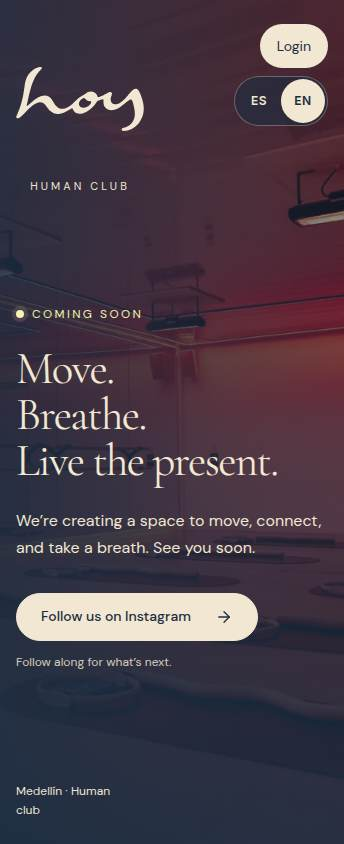
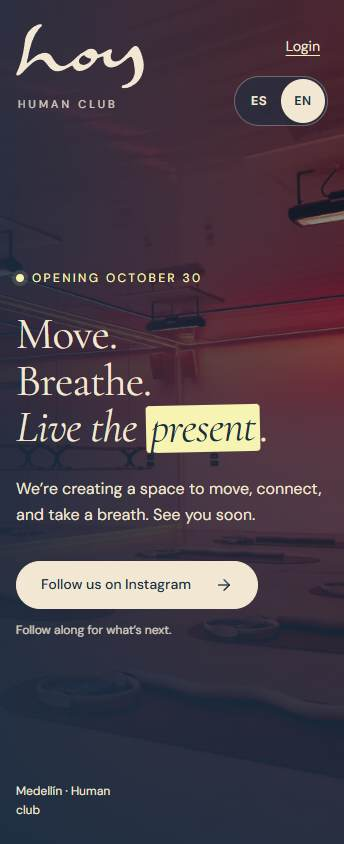
feat: coming-soon quick wins - opening date, marker, lockup, previews (0155)
W-11 (public root):
- Eyebrow names opening day from tenant.opensOn (RN-01: 30 October) and falls back
  to "Proximamente" after it; footer stays city-only until the address is verified.
- Tagline's last line in italic with its last word on the sun marker; tracking moved
  to --ls-tight so the tall acute in "Muevete" no longer leans into the u.
- One left-aligned lockup: the vector wordmark gets an explicit height (aspect-ratio
  alone let the svg fall back to 150 px, leaving a ~90 px gap above "Human club").
- Login kept (owner request 0058) as a quiet text link beside the language toggle.
- Deeper ink scrim behind the text column and footer.
- Link previews: og/twitter tags with an absolute %SITE_URL% filled in by vite, and a
  1200x630 card rendered from W-11 by scripts/gen-og-image.mjs (ES + EN).

test-website-preview passes; W-11 captures regenerated. Docs: changelog 0155,
prompt 0155, W-11 page, kanban. Page codes: W-11.

diff --git a/src/components/template/ComingSoonLanding/ComingSoonLanding.css b/src/components/template/ComingSoonLanding/ComingSoonLanding.css
@@ -5,9 +5,11 @@
 }
 .coming-soon-scene, .coming-soon-veil { position: absolute; inset: 0; z-index: -1; }
 .coming-soon-scene { width: 100%; height: 100%; object-fit: cover; object-position: 62% center; }
+/* 0155 · the text column gets a deeper, longer ink scrim (it holds to ~45% before easing out) and the bottom band is
+   darker, so the small lines ("Lo que viene…", the footer) never sit on the busy mirror and mats. */
 .coming-soon-veil {
-  background: linear-gradient(90deg, color-mix(in srgb, var(--brand-ink) 94%, transparent), color-mix(in srgb, var(--brand-deepBlue) 74%, transparent) 38%, color-mix(in srgb, var(--brand-ink) 9%, transparent) 78%),
-    linear-gradient(0deg, color-mix(in srgb, var(--brand-ink) 48%, transparent), transparent 30%);
+  background: linear-gradient(90deg, color-mix(in srgb, var(--brand-ink) 95%, transparent), color-mix(in srgb, var(--brand-ink) 82%, transparent) 30%, color-mix(in srgb, var(--brand-deepBlue) 58%, transparent) 48%, color-mix(in srgb, var(--brand-ink) 6%, transparent) 80%),
+    linear-gradient(0deg, color-mix(in srgb, var(--brand-ink) 72%, transparent), transparent 34%);
 }
 .coming-soon-layout {
   min-height: 100svh; max-width: 120rem; margin-inline: auto;
@@ -16,19 +18,26 @@
 }
 .coming-soon-header { display: flex; align-items: flex-start; justify-content: space-between; gap: var(--block); }
 .coming-soon-tools { display: flex; align-items: center; gap: var(--gap-control); }
-.coming-soon-login { display: inline-flex; align-items: center; justify-content: center; min-height: var(--h-ctl); padding: 0 var(--sp-lg); border: 1px solid color-mix(in srgb, var(--brand-cream) 45%, transparent); border-radius: var(--r-full); color: var(--brand-cream); background: color-mix(in srgb, var(--brand-ink) 58%, transparent); font: inherit; font-size: var(--fs-sm); text-decoration: none; white-space: nowrap; cursor: pointer; }
-.coming-soon-login:hover { background: var(--brand-cream); color: var(--brand-ink); }
-.coming-soon-brand { display: flex; flex-direction: column; align-items: center; gap: var(--sp-xs); }
-.coming-soon-brand .wordmark-vector { width: 8rem; min-width: 0; }
-.coming-soon-brand > span:last-child { font-size: var(--fs-2xs); text-transform: uppercase; letter-spacing: .28em; }
+/* 0155 · Login (owner request, 0058) stays but steps back: a text link beside the language pill, not a second pill. */
+.coming-soon-login { display: inline-flex; align-items: center; justify-content: center; min-height: var(--h-ctl); padding: 0 var(--sp-sm); border: 0; border-radius: var(--r-sm); color: color-mix(in srgb, var(--brand-cream) 88%, transparent); background: none; font: inherit; font-size: var(--fs-sm); text-decoration: underline; text-decoration-color: color-mix(in srgb, var(--brand-cream) 40%, transparent); text-underline-offset: .3em; white-space: nowrap; cursor: pointer; transition: color var(--dur-fast), text-decoration-color var(--dur-fast); }
+.coming-soon-login:hover { color: var(--brand-cream); text-decoration-color: var(--brand-yellow); }
+/* 0155 · one lockup: the tagline sits tight under the script mark and shares its left edge with everything below. */
+.coming-soon-brand { display: flex; flex-direction: column; align-items: flex-start; gap: 0; }
+/* An explicit height, as the site header does: aspect-ratio alone let the inner svg fall back to its 150 px default,
+   which opened a ~90 px hole between the script and "Human club". */
+.coming-soon-brand .wordmark-vector { width: 8rem; height: calc(8rem / var(--wm-ratio)); min-width: 0; }
+.coming-soon-brand > span:last-child { margin-top: var(--sp-sm); padding-left: var(--sp-2xs); font-size: var(--fs-2xs); text-transform: uppercase; letter-spacing: .28em; opacity: .85; }
 .coming-soon .langtoggle { background: color-mix(in srgb, var(--brand-ink) 58%, transparent); border-color: color-mix(in srgb, var(--brand-cream) 32%, transparent); }
 .coming-soon .langtoggle button { color: var(--brand-cream); min-width: var(--h-ctl); }
 .coming-soon .langtoggle button.is-active { background: var(--brand-cream); color: var(--brand-ink); box-shadow: none; }
 .coming-soon-message { flex: 1; display: flex; flex-direction: column; justify-content: center; align-items: flex-start; padding-block: var(--section); max-width: 36rem; }
 .coming-soon-status { margin: 0 0 var(--block); display: flex; align-items: center; gap: var(--gap-inline); text-transform: uppercase; letter-spacing: .2em; font-size: var(--fs-xs); color: var(--brand-yellow); }
 .coming-soon-status > span { width: var(--sp-sm); height: var(--sp-sm); border-radius: var(--r-full); background: currentColor; box-shadow: 0 0 0 var(--sp-xs) color-mix(in srgb, var(--brand-yellow) 13%, transparent); }
-.coming-soon h1 { margin: 0; font-family: var(--font-editorial); font-size: clamp(3rem, 5.7vw, 5.6rem); line-height: 1.02; letter-spacing: -.035em; font-weight: 400; color: var(--brand-cream); }
-.coming-soon h1 span { display: block; }
+.coming-soon h1 { margin: 0; font-family: var(--font-editorial); font-size: clamp(3rem, 5.7vw, 5.6rem); line-height: 1.04; letter-spacing: var(--ls-tight); font-weight: 400; color: var(--brand-cream); }
+.coming-soon h1 > span { display: block; }
+/* 0155 · the last line in italic (as the site's "tu tiempo."), its last word on the sun marker in ink: the one loud moment. */
+.coming-soon-lead { font-style: italic; }
+.coming-soon-mark { display: inline-block; line-height: 1; padding: 0 .1em .04em; margin-right: .02em; border-radius: .08em; background: var(--brand-yellow); color: var(--brand-ink); transform: rotate(-1.2deg); }
 .coming-soon-intro { max-width: 35ch; margin: var(--block) 0 0; font-size: var(--fs-md); line-height: 1.65; text-wrap: pretty; }
 .coming-soon-cta { margin-top: var(--sp-2xl); }
 .coming-soon-follow { display: inline-flex; align-items: center; justify-content: space-between; gap: var(--block); min-height: var(--h-ctl-lg); padding: 0 var(--sp-xl); border: 1px solid var(--brand-cream); border-radius: var(--r-full); color: var(--brand-ink); background: var(--brand-cream); text-decoration: none; font-size: var(--fs-sm); font-weight: var(--fw-medium); transition: background var(--dur-base), transform var(--dur-base); }
@@ -38,7 +47,7 @@
 .coming-soon-footer p { margin: 0; }
 .coming-soon :is(button, a):focus-visible { outline: 2px solid var(--brand-yellow); outline-offset: var(--sp-xs); }
 @media (max-width: 767px) {
-  .coming-soon-tools { flex-direction: column-reverse; align-items: flex-end; gap: var(--sp-sm); }
+  .coming-soon-tools { flex-direction: column; align-items: flex-end; gap: var(--sp-sm); }
   .coming-soon-layout { padding: var(--sp-xl) var(--gutter); }
   .coming-soon-scene { object-position: 58% center; }
   .coming-soon-veil { background: linear-gradient(90deg, color-mix(in srgb, var(--brand-ink) 86%, transparent), color-mix(in srgb, var(--brand-ink) 43%, transparent)), linear-gradient(0deg, color-mix(in srgb, var(--brand-ink) 85%, transparent), transparent 90%); }

diff --git a/src/components/template/ComingSoonLanding/ComingSoonLanding.tsx b/src/components/template/ComingSoonLanding/ComingSoonLanding.tsx
@@ -4,6 +4,7 @@ import { Drawer } from '../../organism/Drawer/Drawer';
 import { Button } from '../../atom/Button/Button';
 import { useI18n } from '../../../i18n/I18nProvider';
 import { tenant } from '../../../tenant/tenant';
+import { dateKey, formatDate } from '../../../i18n/format';
 import { taglines } from '../../../tenant/brand';
 import { Wordmark } from '../../atom/Wordmark/Wordmark';
 import { Icon } from '../../atom/Icon/Icon';
@@ -12,7 +13,11 @@ import './ComingSoonLanding.css';
 
 /** An independent launch surface: no website-edition state or mock conversion controls. */
 export function ComingSoonLanding() {
-  const { t, bi } = useI18n();
+  const { t, bi, lang } = useI18n();
+  // 0155: the eyebrow names opening day until it has passed, then falls back to "Próximamente".
+  const status = dateKey() <= tenant.opensOn ? t('soon.opens', { date: formatDate(tenant.opensOn, lang, { day: 'numeric', month: 'long' }) }) : t('soon.status');
+  // 0155: the tagline's last line is set in italic and its last word carries the sun marker — the page's one loud moment.
+  const lines = bi(taglines.present).split('.').map((l) => l.trim()).filter(Boolean);
   const [params, setParams] = useSearchParams();
   const location = useLocation();
   const navigate = useNavigate();
@@ -48,11 +53,15 @@ export function ComingSoonLanding() {
     <div className="coming-soon-layout">
       <header className="coming-soon-header">
         <div className="coming-soon-brand"><Wordmark vector tone="cream" /><span>{bi(tenant.tagline)}</span></div>
-        <div className="coming-soon-tools"><LangToggle /><button ref={loginButton} type="button" className="coming-soon-login" onClick={openLogin} aria-haspopup="dialog" aria-expanded={loginOpen}>{t('soon.login')}</button></div>
+        <div className="coming-soon-tools"><button ref={loginButton} type="button" className="coming-soon-login" onClick={openLogin} aria-haspopup="dialog" aria-expanded={loginOpen}>{t('soon.login')}</button><LangToggle /></div>
       </header>
       <section className="coming-soon-message" aria-labelledby="coming-soon-title">
-        <p className="coming-soon-status"><span aria-hidden="true" />{t('soon.status')}</p>
-        <h1 id="coming-soon-title">{bi(taglines.present).split('.').filter(Boolean).map(line => <span key={line}>{line.trim()}.</span>)}</h1>
+        <p className="coming-soon-status"><span aria-hidden="true" />{status}</p>
+        <h1 id="coming-soon-title">{lines.map((line, i) => {
+          if (i < lines.length - 1) return <span key={line}>{line}.</span>;
+          const cut = line.lastIndexOf(' ');
+          return <span key={line} className="coming-soon-lead">{cut > 0 ? `${line.slice(0, cut)} ` : ''}<mark className="coming-soon-mark">{line.slice(cut + 1)}</mark>.</span>;
+        })}</h1>
         <p className="coming-soon-intro">{t('soon.intro')}</p>
         <div className="coming-soon-cta">
           <a className="coming-soon-follow" href={tenant.social.instagramUrl} target="_blank" rel="noopener noreferrer">

diff --git a/src/modules/coming-soon/specs.ts b/src/modules/coming-soon/specs.ts
@@ -7,10 +7,12 @@ export const comingSoonSpec = defineSpec({
   purpose: { es: 'La página de preapertura, separada del sitio completo y accesible desde su propia tarjeta en el hub.', en: 'A standalone pre-launch page, separate from the full website and accessible from its own hub card.' },
   layout: ['Landing'], data: [], roles: EVERYONE, integrations: [],
   logic: [
-    'Public root and /coming-soon share the pre-launch page; /hub is the separate public testing hub. No SiteShell, booking, launch date or lead collection.',
+    'Public root and /coming-soon share the pre-launch page; /hub is the separate public testing hub. No SiteShell, booking or lead collection.',
+    '0155: the eyebrow names opening day from tenant.opensOn (RN-01, 30 October) until that day has passed, then reads "Coming soon". The tagline\'s last line is italic with its last word on the sun marker.',
     'Uses the existing brand wordmark, tenant identity, approved brand tagline and concept sanctuary artwork.',
     'AmbientScene reuses the existing local loop with a still fallback, reduced-motion/save-data support and an explicit pause control.',
-    'Top-right Login opens a Coming Soon dialog with Close, Escape, Back and focus restoration; no credentials, Clerk setup or authentication action.',
+    'Top-right Login (a quiet text link beside the language toggle since 0155) opens a Coming Soon dialog with Close, Escape, Back and focus restoration; no credentials, Clerk setup or authentication action.',
+    '0155: index.html carries link-preview tags (og / twitter) with a 1200 × 630 card rendered from this page by scripts/gen-og-image.mjs.',
     'The only external link opens the existing studio Instagram profile; no visitor data is collected or submitted.',
     'Spanish and English share the normal language switch; the full website and its Latest default remain unchanged.',
   ],

diff --git a/index.html b/index.html
@@ -3,7 +3,23 @@
   <head>
     <meta charset="UTF-8" />
     <meta name="viewport" content="width=device-width, initial-scale=1.0, viewport-fit=cover" />
-    <meta name="description" content="HoyOS — sistema operativo de HOY Wellness Center" />
+    <meta name="description" content="Muévete. Respira. Vive el presente. HOY abre el 30 de octubre en Medellín." />
+    <!-- 0155 · link previews (WhatsApp, Instagram, Facebook, X). %SITE_URL% is filled in at build time (vite.config.ts) because
+         crawlers need absolute URLs; the card is rendered from W-11 by scripts/gen-og-image.mjs. The copy mirrors
+         taglines.present and tenant.opensOn — update both together. -->
+    <meta property="og:type" content="website" />
+    <meta property="og:site_name" content="HOY · Human club" />
+    <meta property="og:title" content="HOY · Abrimos el 30 de octubre en Medellín" />
+    <meta property="og:description" content="Muévete. Respira. Vive el presente. Un espacio para moverte, conectar y hacer una pausa." />
+    <meta property="og:url" content="%SITE_URL%" />
+    <meta property="og:image" content="%SITE_URL%brand/og-coming-soon.jpg" />
+    <meta property="og:image:width" content="1200" />
+    <meta property="og:image:height" content="630" />
+    <meta property="og:image:alt" content="El estudio HOY con luz roja, espejos y colchonetas; Abrimos el 30 de octubre." />
+    <meta property="og:locale" content="es_CO" />
+    <meta property="og:locale:alternate" content="en_US" />
+    <meta name="twitter:card" content="summary_large_image" />
+    <meta name="theme-color" content="#1C2E42" />
     <link rel="icon" type="image/png" href="./brand/hoy-blue.png" />
     <link rel="preconnect" href="https://fonts.googleapis.com" />
     <link rel="preconnect" href="https://fonts.gstatic.com" crossorigin />

diff --git a/vite.config.ts b/vite.config.ts
@@ -7,6 +7,13 @@ import { docMetaPlugin } from './scripts/lib/docmeta.mjs';
 
 const here = fileURLToPath(new URL('.', import.meta.url));
 
+/**
+ * 0155 — the public address the build is served from, for index.html's link-preview tags (crawlers need absolute
+ * URLs, and `base: './'` keeps every asset relative). Override with SITE_URL when the studio's own domain is live.
+ */
+const SITE_URL = (process.env.SITE_URL ?? 'https://hoy-human-club.github.io/Hoy-2.0/').replace(/\/?$/, '/');
+const siteUrlPlugin = { name: 'hoy-site-url', transformIndexHtml: (html: string) => html.replaceAll('%SITE_URL%', SITE_URL) };
+
 /** Counts files matching a suffix under a folder. Build-time only — see __COMPONENT_COUNT__. */
 function countFiles(dir: string, suffix: string): number {
   let n = 0;
@@ -30,7 +37,7 @@ export default defineConfig({
   define: {
     __COMPONENT_COUNT__: JSON.stringify(countFiles(join(here, 'src/components'), '.meta.ts')),
   },
-  plugins: [react(), docMetaPlugin()],
+  plugins: [react(), docMetaPlugin(), siteUrlPlugin],
   server: { port: 5173 },
   preview: { port: 4173 },
   build: { chunkSizeWarningLimit: 1000 },

diff --git a/src/modules/coming-soon/strings.ts b/src/modules/coming-soon/strings.ts
@@ -5,6 +5,7 @@ export const strings: StringTable = {
   'soon.loginBody': { es: 'El acceso de miembros estará disponible próximamente.', en: 'Member login is coming soon.' },
   'soon.login': { es: 'Entrar', en: 'Login' },
   'soon.status': { es: 'Próximamente', en: 'Coming soon' },
+  'soon.opens': { es: 'Abrimos el {date}', en: 'Opening {date}' },
   'soon.intro': { es: 'Estamos preparando un espacio para moverte, conectar y hacer una pausa. Nos vemos pronto.', en: 'We’re creating a space to move, connect, and take a breath. See you soon.' },
   'soon.follow': { es: 'Síguenos en Instagram', en: 'Follow us on Instagram' },
   'soon.news': { es: 'Lo que viene, lo compartimos aquí.', en: 'Follow along for what’s next.' },

diff --git a/src/tenant/tenant.ts b/src/tenant/tenant.ts
@@ -30,6 +30,8 @@ export const tenant = {
   tagline: { es: 'Human club', en: 'Human club' },
   /** The studio is in Medellín (the brand manual is headed "Medellín · 2026" and the copy names it). */
   city: 'Medellín',
+  /** 0155 — opening day (agreed rule RN-01, 2026-10-21: "On October 30 the studio opens with classes"). W-11 shows it until the day passes. */
+  opensOn: '2026-10-30',
   country: 'CO',
   timezone: 'America/Bogota',
   currency: 'COP',

diff --git a/docs/changelog/0155-coming-soon-quick-wins.md b/docs/changelog/0155-coming-soon-quick-wins.md
@@ -1,0 +1,18 @@
+# 0155 — Coming soon: quick wins
+
+date: 2026-10-23
+version: 0.25.0
+prompt: docs/prompts/0155-coming-soon-quick-wins.md
+
+- Trigger: design review of W-11 (the public root). It did not say when the studio opens, the lockup was split (a ~90 px hole under the script mark), the headline had no brand moment, Login competed with the language pill, the small text sat on the busy photo, and shared links had no preview.
+- Decision:
+  - Eyebrow "Abrimos el 30 de octubre / Opening October 30" from the new `tenant.opensOn` (agreed rule RN-01, 2026-10-21), falling back to "Próximamente" after that day. City only in the footer: the street address is still unverified.
+  - Headline: the last line in italic and its last word on the sun marker (ink on yellow, slight tilt). Tracking moved to `--ls-tight` so Cormorant's tall acute no longer leans into the "u" of "Muévete".
+  - Lockup: the vector wordmark gets an explicit height (as the site header); `aspect-ratio` alone let the inner svg fall back to its 150 px default. Tagline left-aligned under the mark.
+  - Login kept (owner request, 0058) as a quiet underlined text link before the language toggle; on phones it stays above the toggle.
+  - Deeper ink scrim over the text column and the bottom band.
+  - Link previews: og / twitter tags in index.html, absolute through a build-time `%SITE_URL%` (default the GitHub Pages address, `SITE_URL` overrides), and a 1200 × 630 card rendered from W-11 by the new scripts/gen-og-image.mjs (ES default, EN alongside).
+- Rejected: removing Login (the owner asked for it); a countdown (not asked, and the date alone carries the message); the raw studio photo as the preview image (no brand, no date); hard-coding the Pages URL in index.html.
+- Not in this change: photo grade, lead capture, right-side anchor and the load sequence (the bigger pass; lead capture needs an owner decision on what it collects).
+- Tests: scripts/test-website-preview.mjs passes (16 checks, ES/EN, 344 / 390 / 768 / 1280 / 3840); its root path now uses fileURLToPath so it also runs on Windows. W-11 captures regenerated.
+- Files: src/components/template/ComingSoonLanding/{ComingSoonLanding.tsx,ComingSoonLanding.css}, src/modules/coming-soon/{strings,specs}.ts, src/tenant/tenant.ts, index.html, vite.config.ts, scripts/gen-og-image.mjs, scripts/test-website-preview.mjs, public/brand/og-coming-soon{,-en}.jpg, docs/pages/W-11.md, docs/screenshots/W-11/*, docs/kanban.md.

diff --git a/docs/pages/W-11.md b/docs/pages/W-11.md
@@ -7,10 +7,12 @@ The public root pre-launch surface, also accessible from its own hub card at /hu
 ## Content and behavior
 
 - Spanish by default; ES/EN uses the shared language control
-- “Muévete. Respira. Vive el presente.” comes from the approved brand content
-- The opening status is simply “Próximamente / Coming soon”; no date or countdown is claimed
+- “Muévete. Respira. Vive el presente.” comes from the approved brand content; since 0155 the last line is italic and its last word (“presente” / “present”) sits on the sun-yellow marker
+- Since 0155 the eyebrow reads “Abrimos el 30 de octubre / Opening October 30” from `tenant.opensOn` (agreed rule RN-01) and returns to “Próximamente / Coming soon” once that day has passed; no countdown
 - The main CTA opens the already-confirmed studio Instagram profile in a new tab, not a popup
-- Top-right Login / Entrar opens the accessible Coming Soon dialog; Close, Escape, overlay and browser Back dismiss it and return focus
+- Top-right Login / Entrar (a quiet text link beside the language toggle since 0155; owner request 0058) opens the accessible Coming Soon dialog; Close, Escape, overlay and browser Back dismiss it and return focus
+- The wordmark and “Human club” form one left-aligned lockup; a deeper ink scrim keeps the text column and footer legible over the photo
+- Link previews (0155): `index.html` carries og / twitter tags and a 1200 × 630 card (`public/brand/og-coming-soon.jpg`, EN variant beside it) rendered from this page by `scripts/gen-og-image.mjs`; the address comes from `SITE_URL` at build time
 - No credentials are requested and no Clerk/auth service is configured
 - No contact form, email collection, mock signup or payment action
 - The studio image is static in all motion and data-saving preferences; no concept video or playback control remains

diff --git a/docs/kanban.md b/docs/kanban.md
@@ -12,8 +12,11 @@ Current 2026-10-22: PR71 merged checkedfeaff4e9 (17 workflows/41 jobs), deployme
 
 - 0154 stage 1 on `ui-polish/stage-1`: Combobox (new) for the S-02 class picker, Tabs (new) for the M-06 segments with counts, demo tools moved from the DesktopShell top bar to a demo bar. Local build and browser check at 390 / 1100 / 1280 px.
 
+- 0155 W-11 quick wins on `ui-polish/coming-soon-quick-wins`: opening date eyebrow (tenant.opensOn), italic last line with the sun marker, one left-aligned lockup, quieter Login link, deeper text scrim, link-preview tags and card. test-website-preview passes (ES/EN, 344–3840).
+
 ### Next
 
+- W-11 bigger pass: photo grade to the Hoy palette, lead capture as the main action (needs a decision on what it collects), a right-side anchor, the load sequence; the address once verified.
 - Hoy status vocabulary on booking and payment views (awaiting Jas / Justin).
 - Owner decisions: dark `action` colour, solid `ink-subtle`, SiteVersionSelect visibility for visitors, HOY vs Human Club, dropping Inter for app titles.
 

diff --git a/docs/prompts/0155-coming-soon-quick-wins.md b/docs/prompts/0155-coming-soon-quick-wins.md
@@ -1,0 +1,9 @@
+# Coming soon: quick wins
+
+You are a UI/Ux Designer with a 15 years of experience in the industry, Criticise it what we can improve here to make it more Polish and Awesome looking
+
+Let's do it.
+
+## Response
+
+Reviewed W-11 and shipped the quick wins: the opening date in the eyebrow (from `tenant.opensOn`, RN-01), the italic last line with the sun marker, one left-aligned wordmark lockup (fixing an svg height bug), a quieter Login link (kept per the owner's 0058 request), a deeper text scrim, and link-preview tags with a 1200 × 630 card rendered from the page. The address stays city-only until verified. Photo grade, lead capture, a right-side anchor and motion are the next pass. See changelog 0155.
